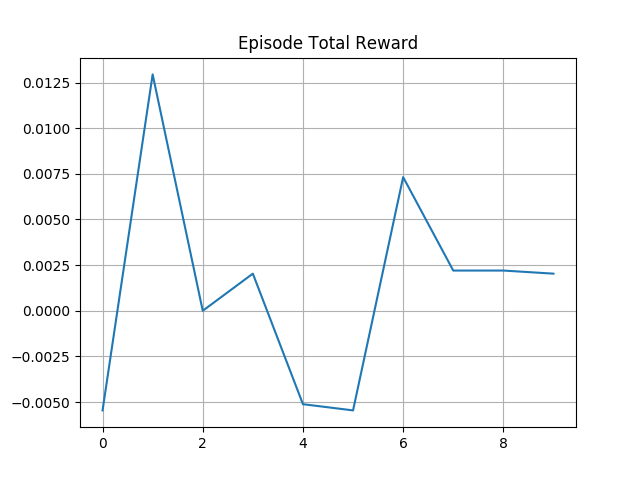
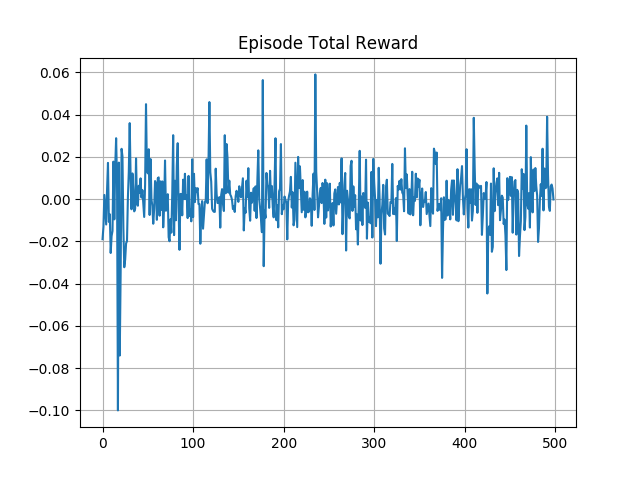
Add histogram

diff --git a/trading_env.py b/trading_env.py
@@ -11,6 +11,7 @@ import logging
 import pdb
 
 import tempfile
+import matplotlib.pyplot as plt
 
 log = logging.getLogger(__name__)
 log.setLevel(logging.DEBUG)
@@ -81,9 +82,9 @@ class QuandlEnvSrc(object):
     self.min_values = df3.min(axis=0)
     self.max_values = df3.max(axis=0)
 
-    df1=df1.tail(100)
-    df2=df2.tail(100)
-    df3=df3.tail(100)
+    df1=df1.tail(500)
+    df2=df2.tail(500)
+    df3=df3.tail(500)
 
     self.step = 0
     df=[df1,df2,df3]
@@ -251,7 +252,7 @@ class TradingEnv(gym.Env):
 
   """
   def __init__(self):
-    self.days = 99
+    self.days = 499
     self.src = QuandlEnvSrc(days=self.days)
     self.sim = TradingSim(steps=self.days)
     self.action_space = spaces.Discrete( 3 )
@@ -317,20 +318,40 @@ class TradingEnv(gym.Env):
     self.epsilon=epsilon
     observation = self.reset()
     done = False
+    self.episode_step=0
     while not done:
-      if np.random.random() < self.epsilon:
-           action = np.random.randint(3,size = 3)
+      if self.episode_step ==0 or np.random.random() < self.epsilon:
+           action=[1,1,1]
+           choice = np.random.randint(3)
+           action[choice]=2
       else:
           action=[1,1,1]
-          for i in range(0,3):
-             max_index = self.sim.to_df()[i].action_reward.idxmax(axis=1)
-             action[i]=int(self.sim.to_df()[i].action[max_index])
+          total_reward_i = self.sim.to_df()[0].total_reward[self.episode_step-1]
+          chosen_i=Counter(self.sim.to_df()[0].action)[2.0]
+          Q_max=0
+          choice=0
+          if chosen_i > 0 : 
+             Q_max=total_reward_i/chosen_i
+          else:
+             Q_max=total_reward_i           
+          for i in range(1,3):
+             total_reward_i = self.sim.to_df()[i].total_reward[self.episode_step-1]
+             chosen_i=Counter(self.sim.to_df()[i].action)[2.0]
+             if chosen_i > 0 :
+              Q_i=total_reward_i/chosen_i
+             else:
+              Q_i=total_reward_i
+             if Q_i >= Q_max:
+               Q_max=Q_i
+               choice=i 
+          action[choice]=2
+      self.episode_step=self.episode_step+1
       observation, reward, done, info = self.step(action)
     return self.sim.to_df() if return_df else None  
 
   def run(self, episodes, write_log=True, return_df=True):
     alldf = []
-    for i in range(episodes):
+    for i in range(1):
       df = self.epsilon_greedy()
       if return_df:
           total_reward=0.0

diff --git a/test_env.py b/test_env.py
@@ -5,6 +5,7 @@ import pandas as pd
 import numpy as np
 import trading_env as te
 import matplotlib.pyplot as plt
+from collections import Counter
 
 pd.set_option('display.width',400)
 
@@ -29,20 +30,27 @@ obs = []
 #buyhold=lambda x,y:2
 #df = env.env.run_strat(buyhold)
 
-#df = env.env.epsilon_greedy( )
-dfall = env.env.run(10)
-print dfall
+df = env.env.epsilon_greedy()
+#dfall = env.env.run(10)
+#print dfall
+total_reward=df[0].action_reward+df[1].action_reward+df[2].action_reward
 
-plt.plot(dfall);plt.title('Episode Total Reward');plt.grid(True);plt.savefig("test.png");plt.show();
+#plt.plot(total_reward);
+#plt.title('Episode Total Reward');plt.grid(True);plt.savefig("test.png");plt.show();
+
+x = np.arange(3)
+plt.bar(x, height= [Counter(df[0].action)[2.0],Counter(df[1].action)[2.0],Counter(df[2].action)[2.0]])
+plt.xticks(x+.5, ['Siemens','Volkswagen','Hugo Boss']);
+plt.savefig("histo.png");plt.show();
 
 print "=================="
 print "===== RESULTS ===="
 print "=================="
 print "===== Siemens ===="
-#print df[0]
+print df[0]
 print "===== Volkswagen ===="
-#print df[1]
+print df[1]
 print "===== Hugo Boss ===="
-#print df[2]
+print df[2]
 #df10 = env.env.run_strats( buyhold, Episodes )
 #print df10
